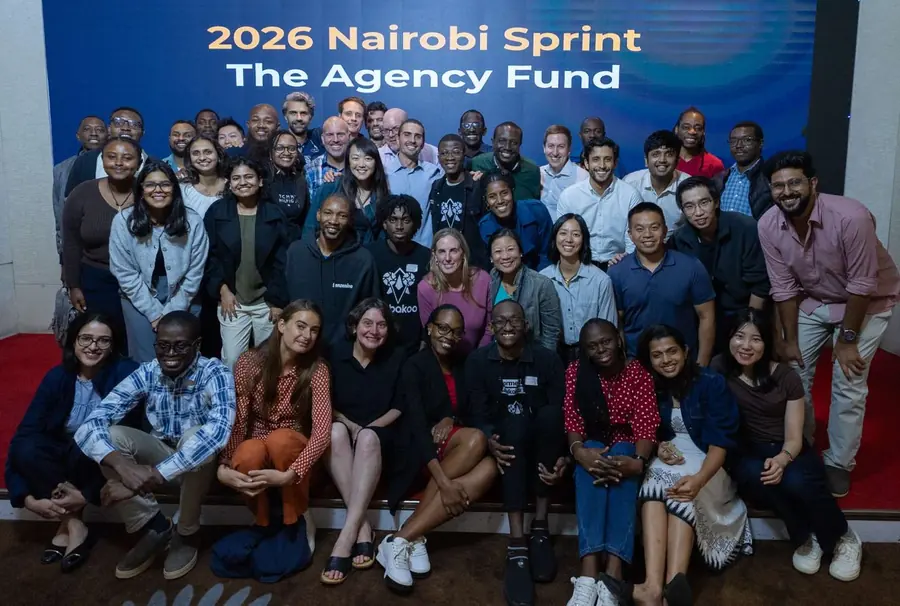
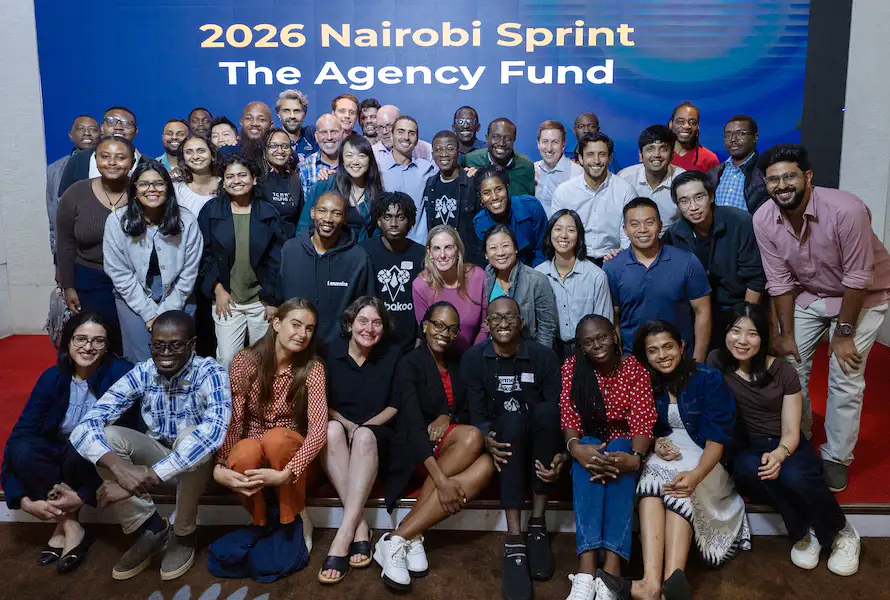
update some images

diff --git a/sites/www/src/content.config.ts b/sites/www/src/content.config.ts
@@ -83,7 +83,7 @@ const features = defineCollection({
     title: z.string(),
     summary: z.string(),
     useWhen: z.string(),
-    screen: z.enum(["experiments", "bandit-analysis"]),
+    screen: z.enum(["experiments", "bandit-analysis", "datasources"]),
     alt: z.string(),
     crop: z.object({ width: z.number(), left: z.number(), top: z.number() }),
   }),
